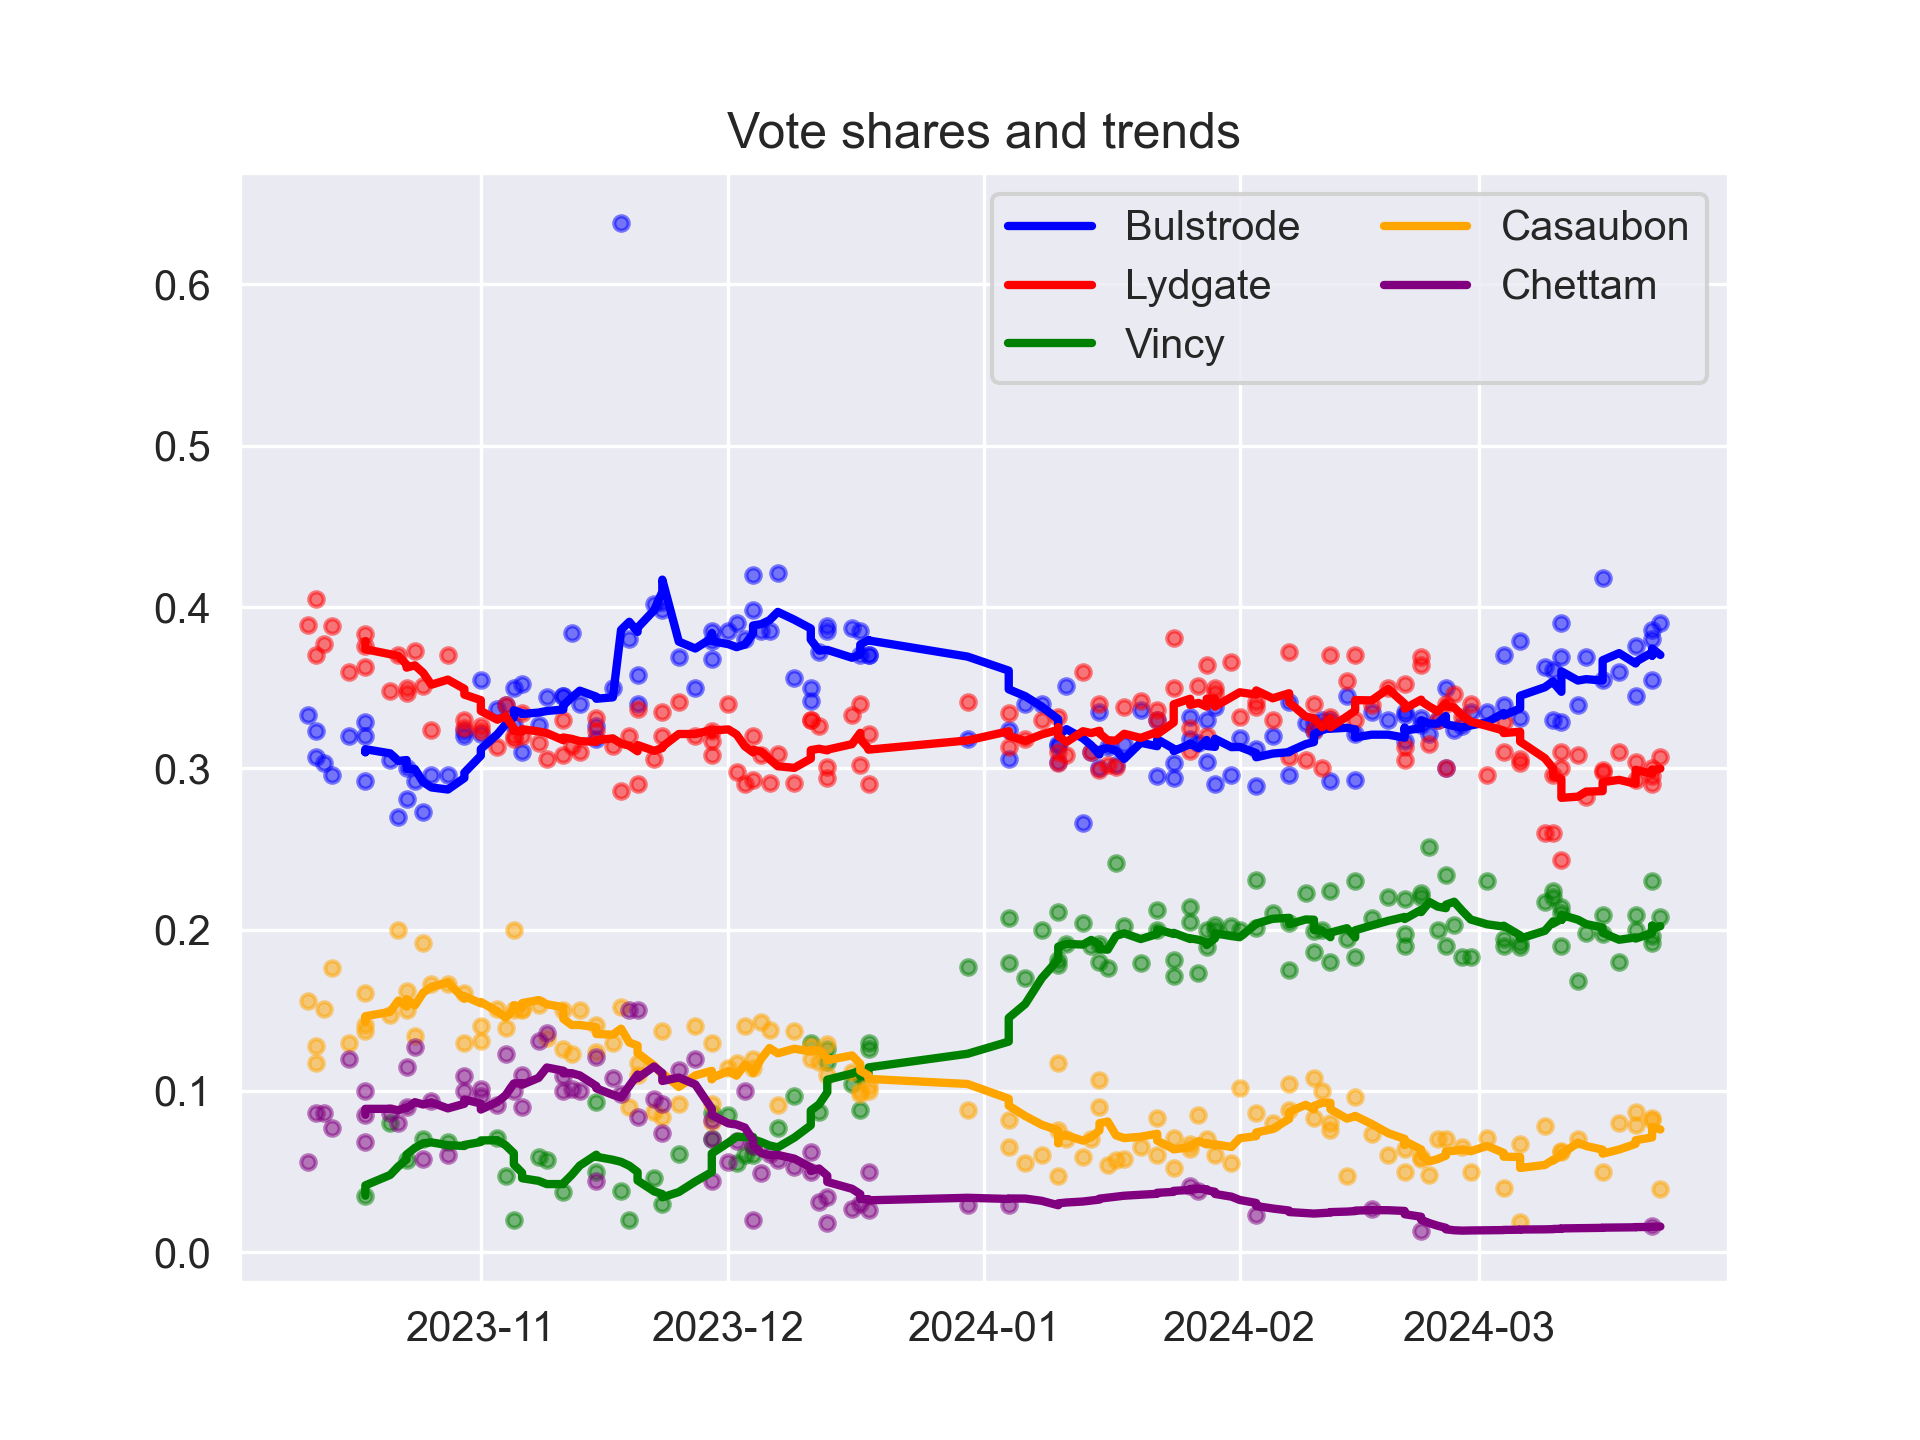
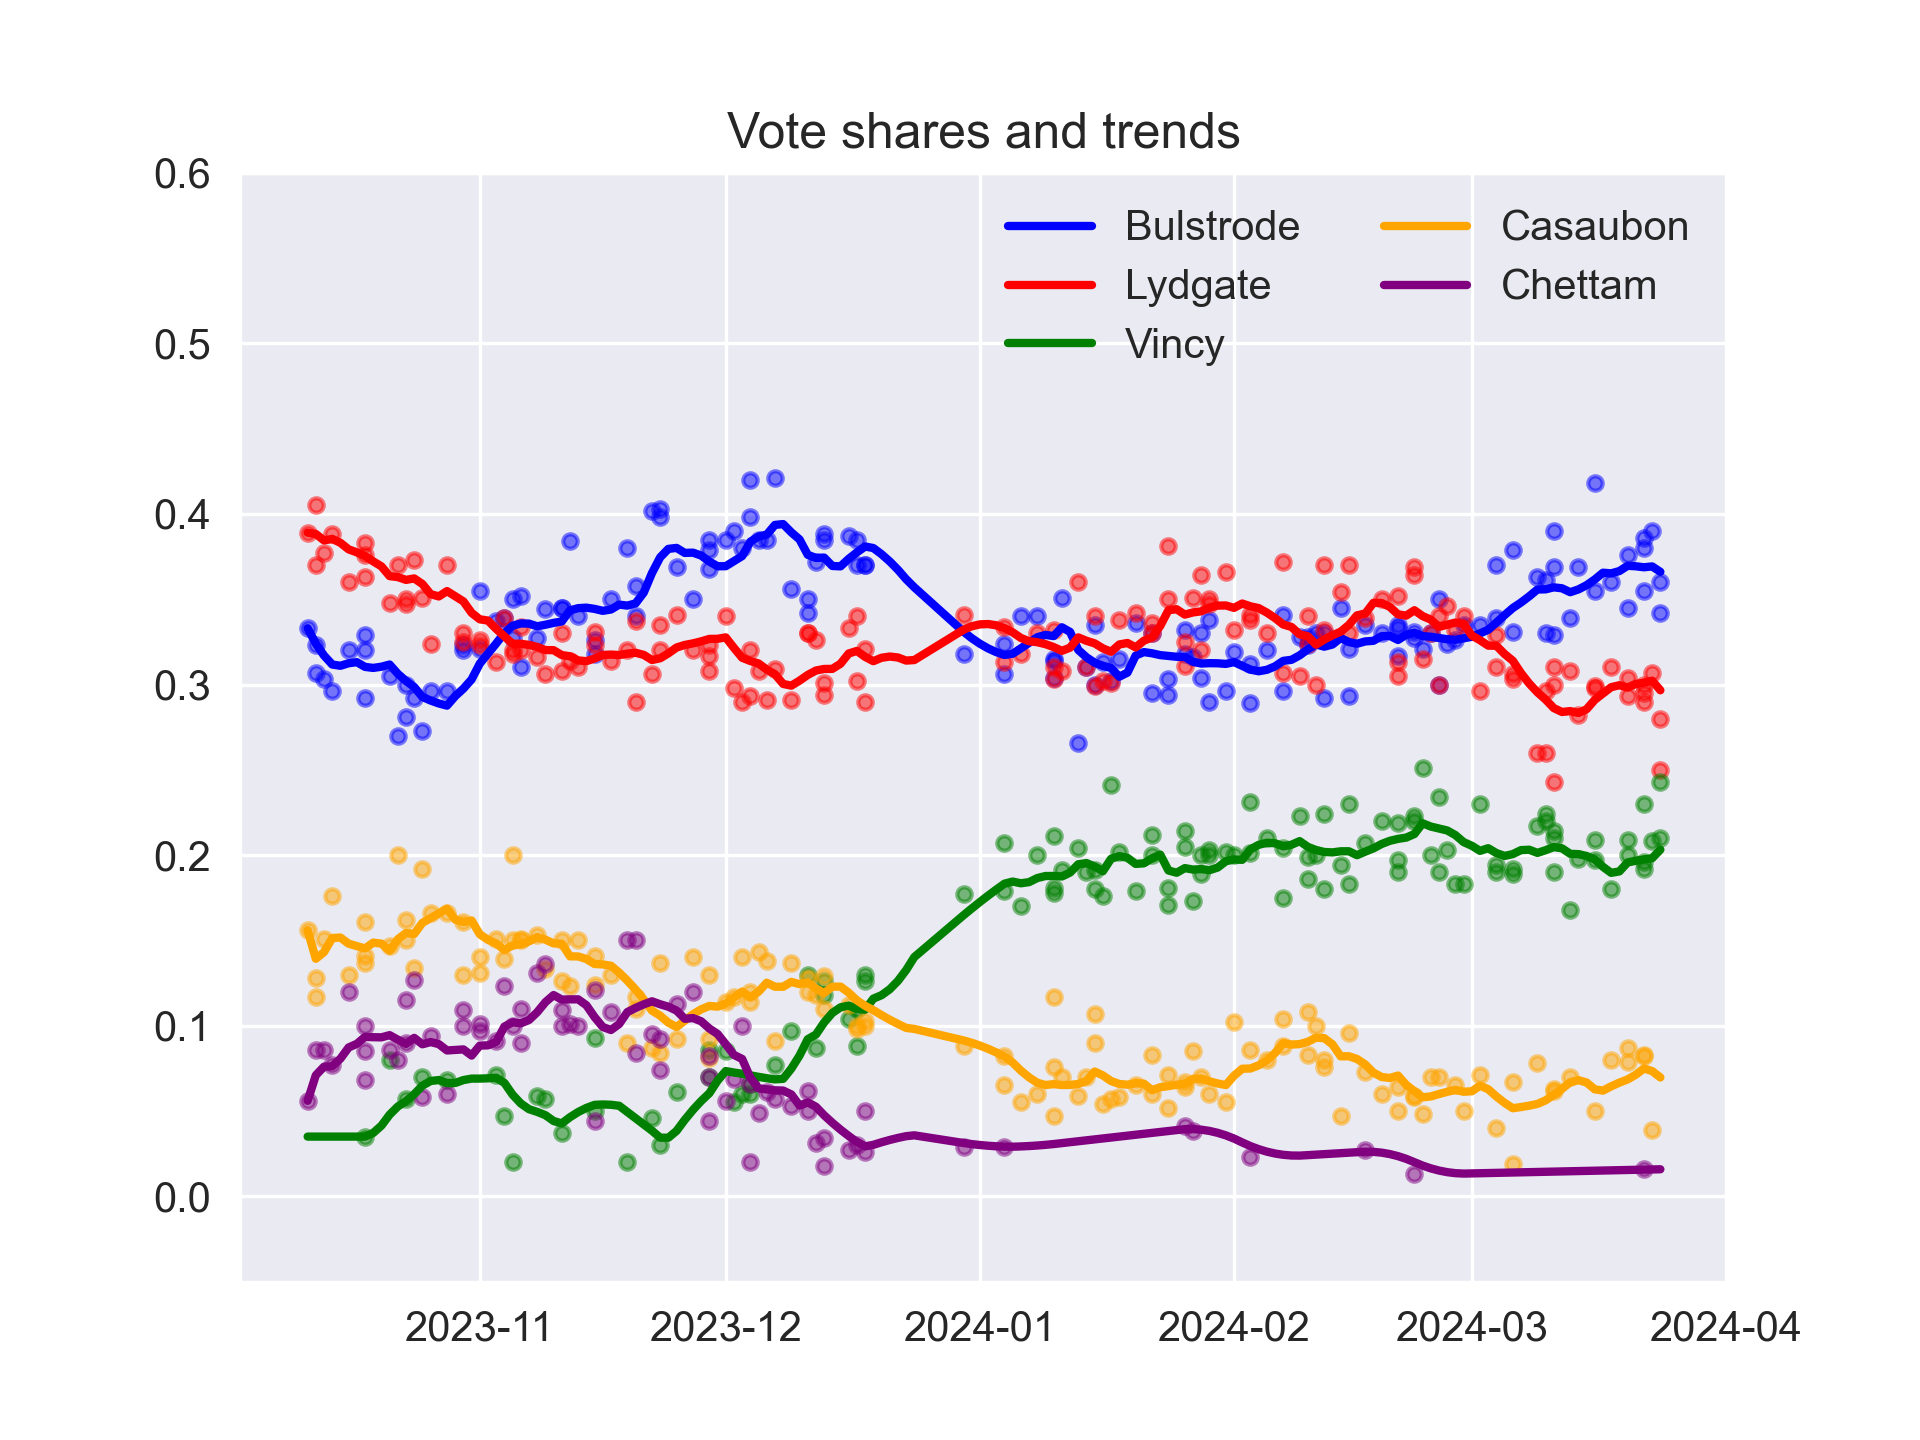
dev function to calculate trend

diff --git a/dev/calc_trend.py b/dev/calc_trend.py
@@ -1,0 +1,59 @@
+import pandas as pd
+import matplotlib.pyplot as plt
+from tools_scrape_polls import *
+
+method_interpolate = 'linear'
+
+# remove box around legend
+plt.rcParams['legend.frameon'] = False
+
+
+# import df_data.csv
+df_data = pd.read_csv('./dev/df_data.csv')
+
+# convert Date to datetime (got lost when exporting to csv)
+df_data['Date'] = pd.to_datetime(df_data['Date'])
+
+
+names_candidates = [col for col in df_data.columns if col not in ['Date', 'Pollster', 'Sample', 'Others']]
+
+# resample df_data to daily frequency taking the mean over days
+df_data_resampled = df_data.set_index('Date').resample('D').mean()
+
+# drop Sample from df_data_resampled as it is not needed for the trend calculations
+df_data = df_data.drop(columns=['Sample'])
+
+if method_interpolate == 'linear':
+    df_data_interpolated = df_data_resampled.interpolate(method='linear', limit_direction='both')
+elif method_interpolate == 'pad':
+    df_data_interpolated = df_data_resampled.interpolate(method='pad')
+else:
+    #logging.error('method_interpolate must be either linear or pad')
+    raise ValueError('method_interpolate must be either linear or pad')
+
+# calculate rolling average on index
+df_trends = df_data_interpolated.rolling(window='7D').mean()
+
+df_trends.head()
+
+# overwrite trend of Others with 1 - sum of trends of all candidates  
+df_trends['Others'] = 1 - df_trends.loc[:, names_candidates].sum(axis=1, skipna=False)
+
+
+
+for col in df_data.columns[7:]:
+    fig, ax = plt.subplots()
+    ax.scatter(df_data['Date'], df_data[col],
+            marker='o', s = 12, alpha = 0.5, color = 'blue', label = "original data")
+    ax.scatter(df_data_resampled.index, df_data_resampled[col], marker='x', s = 12, alpha = 0.5, color = 'blue', label = "resampled")
+    ax.plot(df_data_interpolated.index, df_data_interpolated[col], color = 'blue',
+            label = 'interpolated', linestyle = 'dotted', linewidth=2)
+    ax.plot(df_trends.index, df_trends[col], color = 'black',
+            label = 'trend', linestyle = 'solid', linewidth=2)
+    ax.plot(df_trends2.index, df_trends2[col], color = 'red',
+            label = 'trend_residual', linestyle = 'solid', linewidth=2)
+    ax.legend(loc='best')
+    ax.set_title(col)
+
+plot_trends_polls(df_trends, df_data, names_candidates)
+
